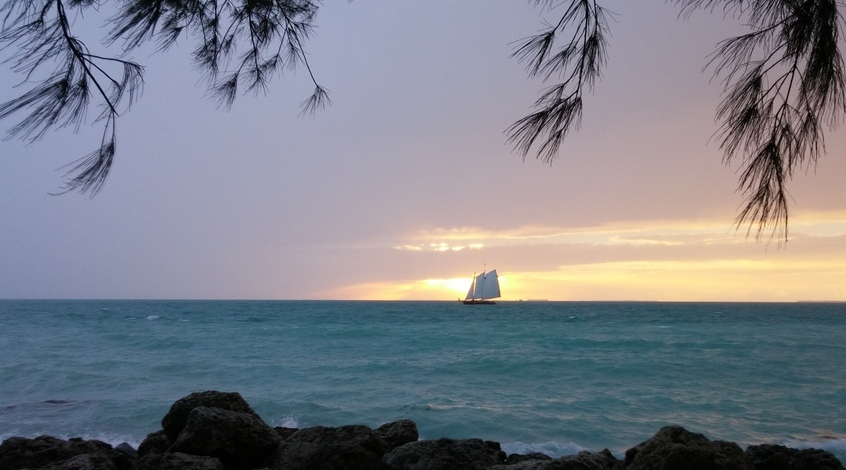
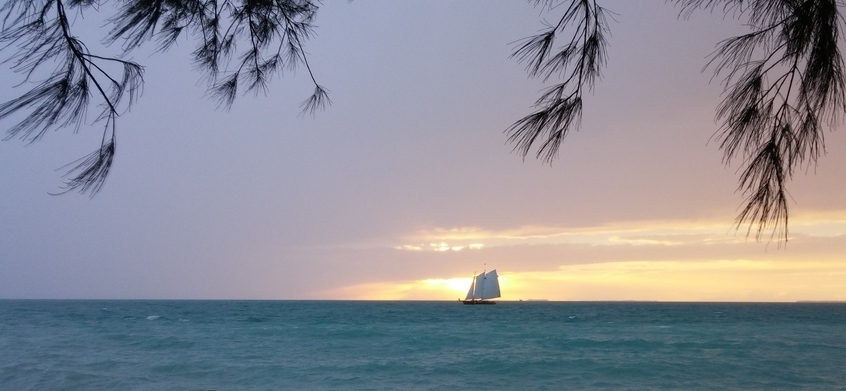
Minor fixes.

diff --git a/style.css b/style.css
@@ -8,6 +8,10 @@ html {
   	-o-background-size: cover;
 }
 
+.coast-with-rocks {
+	background-image: url(images/coastwithrocks.jpg);
+}
+
 .coast {
 	background-image: url(images/coast.jpg);
 }
@@ -51,11 +55,11 @@ li a {
 }
 
 li a:hover:not(.active) {
-    background-color: rgba(0, 0, 0, 0.8);
+    background-color: rgba(0, 0, 0, 1);
 }
 
 .active {
-    background-color: rgba(0, 0, 0, 0.8);
+    background-color: rgba(0, 0, 0, 1);
 }
 
 .sidefx-logo {

diff --git a/index.html b/index.html
@@ -1,5 +1,5 @@
 <!DOCTYPE html>
-<html class="coast">
+<html class="coast-with-rocks">
 <head>
 	<title>Lucas Palmer</title>
 	<link rel="stylesheet" type="text/css" href="style.css">
